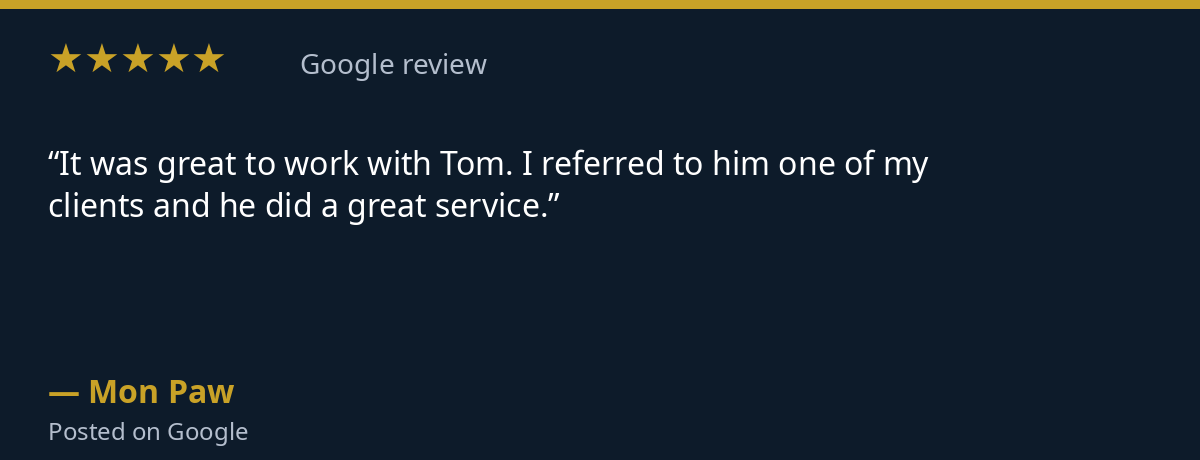
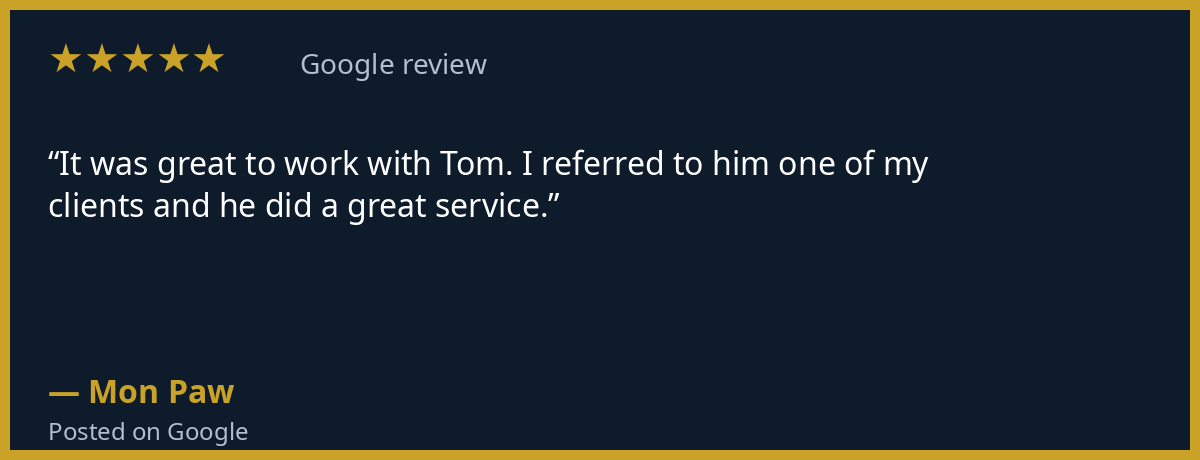
Forest Lake Estates kit pass 5: table reverts to pass-3 separators + border=3 gold table frame; review panels rebaked as full gold boxes, each in its own paragraph (Nov 23, 2026)

Changed region(s): [[0.0, 0.0, 1.0, 1.0]]

diff --git a/paste-forest-walk.html b/paste-forest-walk.html
@@ -106,7 +106,7 @@
 <p>Tomasz R. Witek is helping buyers and sellers move. Forest Lake Estates is comprised of: Aquaterra Avenue, Autumn Leaves Lane, Fox Valley Road.</p>
 <h2>The Greely guides — every sub-area</h2>
 <p>Forest Lake Estates is one of the Greely sub-area guides in this series, under the full Greely village guide. Each one is built the same way: the community&rsquo;s own story, its designated school paths where they are verified, and live listings on its own boundary.</p>
-<table width="100%" border="0" cellpadding="0" cellspacing="0"><tr><td colspan="3" valign="top"><p><img src="https://ottawapropertyshop-design.github.io/ottawa-market-widgets/blocks/forest-walk/gold-line.png" width="100%" alt=""></p></td></tr><tr><td bgcolor="#c9a227" width="3"></td><td valign="top"><p><a href="https://www.sellingottawa.realestate/blog/Greely+Homes+for+Sale+in+Ottawa+Neighbourhood+Guide">Greely Homes for Sale in Ottawa Neighbourhood Guide</a><br>The full Greely guide — every sub-area, the village&rsquo;s servicing picture, schools and the whole village story.</p></td><td bgcolor="#c9a227" width="3"></td></tr><tr><td colspan="3" valign="top"><p><img src="https://ottawapropertyshop-design.github.io/ottawa-market-widgets/blocks/forest-walk/gold-line.png" width="100%" alt=""></p></td></tr><tr><td bgcolor="#c9a227" width="3"></td><td valign="top"><p><a href="https://www.sellingottawa.realestate/blog/Shadow+Ridge+Greely+Homes+for+Sale+Neighbourhood+Guide">Shadow Ridge Greely Homes for Sale Neighbourhood Guide</a><br>The established, city-serviced estate community. About 3.0 km from Forest Lake Estates.</p></td><td bgcolor="#c9a227" width="3"></td></tr><tr><td colspan="3" valign="top"><p><img src="https://ottawapropertyshop-design.github.io/ottawa-market-widgets/blocks/forest-walk/gold-line.png" width="100%" alt=""></p></td></tr><tr><td bgcolor="#c9a227" width="3"></td><td valign="top"><p><a href="https://www.sellingottawa.realestate/blog/Stanley+Park+Greely+Homes+for+Sale+Neighbourhood+Guide">Stanley Park Greely Homes for Sale Neighbourhood Guide</a><br>The established estate pocket in Greely&rsquo;s south end — larger resale homes on mature treed lots around the Stanley Park green space. About 1.4 km from Forest Lake Estates.</p></td><td bgcolor="#c9a227" width="3"></td></tr><tr><td colspan="3" valign="top"><p><img src="https://ottawapropertyshop-design.github.io/ottawa-market-widgets/blocks/forest-walk/gold-line.png" width="100%" alt=""></p></td></tr><tr><td bgcolor="#c9a227" width="3"></td><td valign="top"><p><a href="https://www.sellingottawa.realestate/blog/Sunset+Lakes+Greely+Homes+for+Sale+Neighbourhood+Guide">Sunset Lakes Greely Homes for Sale Neighbourhood Guide</a><br>Greely&rsquo;s original lake community in the village&rsquo;s northwest: estate homes around the man-made lakes, with the community park, pool, tennis and pickleball, and trails. About 2.4 km from Forest Lake Estates.</p></td><td bgcolor="#c9a227" width="3"></td></tr><tr><td colspan="3" valign="top"><p><img src="https://ottawapropertyshop-design.github.io/ottawa-market-widgets/blocks/forest-walk/gold-line.png" width="100%" alt=""></p></td></tr><tr><td bgcolor="#c9a227" width="3"></td><td valign="top"><p><a href="https://www.sellingottawa.realestate/blog/Emerald+Links+Greely+Homes+for+Sale+Neighbourhood+Guide">Emerald Links Greely Homes for Sale Neighbourhood Guide</a><br>The Patterson family&rsquo;s 27-hole golf course community and the estate homes of Phases 1, 2 and 3 around the fairways. About 0.8 km from Forest Lake Estates.</p></td><td bgcolor="#c9a227" width="3"></td></tr><tr><td colspan="3" valign="top"><p><img src="https://ottawapropertyshop-design.github.io/ottawa-market-widgets/blocks/forest-walk/gold-line.png" width="100%" alt=""></p></td></tr><tr><td bgcolor="#c9a227" width="3"></td><td valign="top"><p><a href="https://www.sellingottawa.realestate/blog/Lakewood+Trails+Greely+Homes+for+Sale+Neighbourhood+Guide">Lakewood Trails Greely Homes for Sale Neighbourhood Guide</a><br>The Shoreway Drive waterfront community on the village&rsquo;s east side: two private lakes, the Residents&rsquo; Club, and Plan 4M-1636. About 3.6 km from Forest Lake Estates.</p></td><td bgcolor="#c9a227" width="3"></td></tr><tr><td colspan="3" valign="top"><p><img src="https://ottawapropertyshop-design.github.io/ottawa-market-widgets/blocks/forest-walk/gold-line.png" width="100%" alt=""></p></td></tr><tr><td bgcolor="#c9a227" width="3"></td><td valign="top"><p><a href="https://www.sellingottawa.realestate/blog/Quinn+Farm+Greely+Homes+for+Sale+Neighbourhood+Guide">Quinn Farm Greely Homes for Sale Neighbourhood Guide</a><br>The eco-community in the heart of Greely Village, on the Greely Loop: Still Meadow Way, Rangeland Avenue, Springrun Place, Perennial Way and Stonecrop Avenue, 121 homes, with lots still releasing. About 2.7 km from Forest Lake Estates.</p></td><td bgcolor="#c9a227" width="3"></td></tr><tr><td colspan="3" valign="top"><p><img src="https://ottawapropertyshop-design.github.io/ottawa-market-widgets/blocks/forest-walk/gold-line.png" width="100%" alt=""></p></td></tr><tr><td bgcolor="#c9a227" width="3"></td><td valign="top"><p><a href="https://www.sellingottawa.realestate/blog/Lakeland+Meadows+Greely+Homes+for+Sale+Neighbourhood+Guide">Lakeland Meadows Greely Homes for Sale Neighbourhood Guide</a><br>The newer lot community sharing the communal servicing story with Shadow Ridge. About 3.1 km from Forest Lake Estates.</p></td><td bgcolor="#c9a227" width="3"></td></tr><tr><td colspan="3" valign="top"><p><img src="https://ottawapropertyshop-design.github.io/ottawa-market-widgets/blocks/forest-walk/gold-line.png" width="100%" alt=""></p></td></tr><tr><td bgcolor="#c9a227" width="3"></td><td valign="top"><p><a href="https://www.sellingottawa.realestate/blog/Country+Hill+Estates+Greely+Homes+for+Sale+Neighbourhood+Guide">Country Hill Estates Greely Homes for Sale Neighbourhood Guide</a><br>Two-acre estate lots on Greely&rsquo;s east side. About 7.2 km from Forest Lake Estates.</p></td><td bgcolor="#c9a227" width="3"></td></tr><tr><td colspan="3" valign="top"><p><img src="https://ottawapropertyshop-design.github.io/ottawa-market-widgets/blocks/forest-walk/gold-line.png" width="100%" alt=""></p></td></tr><tr><td bgcolor="#c9a227" width="3"></td><td valign="top"><p><a href="https://www.sellingottawa.realestate/blog/Albion+Woods+Greely+Homes+for+Sale+Neighbourhood+Guide">Albion Woods Greely Homes for Sale Neighbourhood Guide</a><br>Parkbridge&rsquo;s land-lease manufactured-home community — residents own the home and lease the site. About 1.5 km from Forest Lake Estates.</p></td><td bgcolor="#c9a227" width="3"></td></tr><tr><td colspan="3" valign="top"><p><img src="https://ottawapropertyshop-design.github.io/ottawa-market-widgets/blocks/forest-walk/gold-line.png" width="100%" alt=""></p></td></tr><tr><td bgcolor="#c9a227" width="3"></td><td valign="top"><p><a href="https://www.sellingottawa.realestate/blog/Cedarlakes+Greely+Homes+for+Sale+Neighbourhood+Guide">Cedarlakes Greely Homes for Sale Neighbourhood Guide</a><br>The lake-backing estate community on Cedarlakes Way and the south end of Spartan Grove: executive homes on Cedar Lake, the Cedarlakes Association dock and lake access, and Plans 4M-1479 and 4M-1555. About 1.6 km from Forest Lake Estates.</p></td><td bgcolor="#c9a227" width="3"></td></tr><tr><td colspan="3" valign="top"><p><img src="https://ottawapropertyshop-design.github.io/ottawa-market-widgets/blocks/forest-walk/gold-line.png" width="100%" alt=""></p></td></tr><tr><td bgcolor="#c9a227" width="3"></td><td valign="top"><p><a href="https://www.sellingottawa.realestate/blog/Woodstream+Greely+Homes+for+Sale+Neighbourhood+Guide">Woodstream Greely Homes for Sale Neighbourhood Guide</a><br>The established lake community at the village&rsquo;s north end, modelled on Sunset Lakes: estate homes around the lake on Suncrest Drive, Woodstream Drive, Woods Lake Road, Tintern Drive, Rousseau Crescent and Wild Fern Way, with the beach, pool and tennis through the owners&rsquo; association. About 1.3 km from Forest Lake Estates.</p></td><td bgcolor="#c9a227" width="3"></td></tr><tr><td colspan="3" valign="top"><p><img src="https://ottawapropertyshop-design.github.io/ottawa-market-widgets/blocks/forest-walk/gold-line.png" width="100%" alt=""></p></td></tr><tr><td bgcolor="#c9a227" width="3"></td><td valign="top"><p><a href="https://www.sellingottawa.realestate/blog/South+Village+Greely+Homes+for+Sale+Neighbourhood+Guide">South Village Greely Homes for Sale Neighbourhood Guide</a><br>The Village Lake clubhouse community at the village&rsquo;s northwest end. About 2.2 km from Forest Lake Estates.</p></td><td bgcolor="#c9a227" width="3"></td></tr><tr><td colspan="3" valign="top"><p><img src="https://ottawapropertyshop-design.github.io/ottawa-market-widgets/blocks/forest-walk/gold-line.png" width="100%" alt=""></p></td></tr><tr><td bgcolor="#c9a227" width="3"></td><td valign="top"><p><a href="https://www.sellingottawa.realestate/blog/Orchard+View+Estates+Greely+Homes+for+Sale+Neighbourhood+Guide">Orchard View Estates Greely Homes for Sale Neighbourhood Guide</a><br>The large-parcel estate community around the Orchard Road ponds in Greely&rsquo;s southwest: twelve streets, 373 homes, a protected wildlife sanctuary at its heart, and the separate Nick Adams Road section. About 1.7 km from Forest Lake Estates.</p></td><td bgcolor="#c9a227" width="3"></td></tr><tr><td colspan="3" valign="top"><p><img src="https://ottawapropertyshop-design.github.io/ottawa-market-widgets/blocks/forest-walk/gold-line.png" width="100%" alt=""></p></td></tr><tr><td bgcolor="#c9a227" width="3"></td><td valign="top"><p><a href="https://www.sellingottawa.realestate/blog/Greely+West+Homes+for+Sale+Neighbourhood+Guide">Greely West Homes for Sale Neighbourhood Guide</a><br>The village&rsquo;s west side around Greely West Park: twelve streets, 305 homes, plus the Manotick Station Road strip in its searches. About 0.4 km from Forest Lake Estates.</p></td><td bgcolor="#c9a227" width="3"></td></tr><tr><td colspan="3" valign="top"><p><img src="https://ottawapropertyshop-design.github.io/ottawa-market-widgets/blocks/forest-walk/gold-line.png" width="100%" alt=""></p></td></tr><tr><td bgcolor="#c9a227" width="3"></td><td valign="top"><p><a href="https://www.sellingottawa.realestate/blog/Greely+Village+Core+Centre+Homes+for+Sale+Neighbourhood+Guide">Greely Village Core Centre Homes for Sale Neighbourhood Guide</a><br>The old-village streets — Meadow Drive, Old Prescott Road, Parkway Road and Stagecoach Road. About 3.9 km from Forest Lake Estates.</p></td><td bgcolor="#c9a227" width="3"></td></tr><tr><td colspan="3" valign="top"><p><img src="https://ottawapropertyshop-design.github.io/ottawa-market-widgets/blocks/forest-walk/gold-line.png" width="100%" alt=""></p></td></tr><tr><td bgcolor="#c9a227" width="3"></td><td valign="top"><p>Forest Lake Estates Greely Homes for Sale Neighbourhood Guide<br>This guide — the forested one-acre-lot community now selling in Greely&rsquo;s west end: Aquaterra Avenue, Autumn Leaves Lane and the Fox Valley Road frontage, Registered Plan 4M-1782, with lots still available.</p></td><td bgcolor="#c9a227" width="3"></td></tr><tr><td colspan="3" valign="top"><p><img src="https://ottawapropertyshop-design.github.io/ottawa-market-widgets/blocks/forest-walk/gold-line.png" width="100%" alt=""></p></td></tr><tr><td bgcolor="#c9a227" width="3"></td><td valign="top"><p><a href="https://www.sellingottawa.realestate/blog/Albion+Sun+Vista+Greely+Homes+for+Sale+Neighbourhood+Guide">Albion Sun Vista Greely Homes for Sale Neighbourhood Guide</a><br>Parkbridge&rsquo;s sister land-lease community beside Albion Woods — residents own the home and lease the site. About 1.6 km from Forest Lake Estates.</p></td><td bgcolor="#c9a227" width="3"></td></tr><tr><td colspan="3" valign="top"><p><img src="https://ottawapropertyshop-design.github.io/ottawa-market-widgets/blocks/forest-walk/gold-line.png" width="100%" alt=""></p></td></tr><tr><td bgcolor="#c9a227" width="3"></td><td valign="top"><p><a href="https://www.sellingottawa.realestate/blog/Greely+Orchard+Estates+Homes+for+Sale+Neighbourhood+Guide">Greely Orchard Estates Homes for Sale Neighbourhood Guide</a><br>The built-out estate community on two-acre lots with ponds. About 1.2 km from Forest Lake Estates.</p></td><td bgcolor="#c9a227" width="3"></td></tr><tr><td colspan="3" valign="top"><p><img src="https://ottawapropertyshop-design.github.io/ottawa-market-widgets/blocks/forest-walk/gold-line.png" width="100%" alt=""></p></td></tr><tr><td bgcolor="#c9a227" width="3"></td><td valign="top"><p><a href="https://www.sellingottawa.realestate/blog/Waters+Edge+Greely+Homes+for+Sale+Neighbourhood+Guide">Waters Edge Greely Homes for Sale Neighbourhood Guide</a><br>The custom-home community around spring-fed Lake Zont: two streets, 72 homes, inside the village of Greely. About 4.6 km from Forest Lake Estates.</p></td><td bgcolor="#c9a227" width="3"></td></tr><tr><td colspan="3" valign="top"><p><img src="https://ottawapropertyshop-design.github.io/ottawa-market-widgets/blocks/forest-walk/gold-line.png" width="100%" alt=""></p></td></tr><tr><td bgcolor="#c9a227" width="3"></td><td valign="top"><p><a href="https://www.sellingottawa.realestate/blog/Emerald+Estates+Greely+Homes+for+Sale+Neighbourhood+Guide">Emerald Estates Greely Homes for Sale Neighbourhood Guide</a><br>Sunset Lakes Developments&rsquo; planned 73-home community west of Stagecoach Road, beside Emerald Links — tracked from the planning stage. About 0.6 km from Forest Lake Estates.</p></td><td bgcolor="#c9a227" width="3"></td></tr><tr><td colspan="3" valign="top"><p><img src="https://ottawapropertyshop-design.github.io/ottawa-market-widgets/blocks/forest-walk/gold-line.png" width="100%" alt=""></p></td></tr><tr><td bgcolor="#c9a227" width="3"></td><td valign="top"><p><a href="https://www.sellingottawa.realestate/blog/Emerald+Links+Phase+3+Greely+Luxury+Estates+Homes+for+Sale+Neighbourhood+Guide">Emerald Links Phase 3 Greely Luxury Estates Homes for Sale Neighbourhood Guide</a><br>The third phase of Emerald Links: 43 estate lots of roughly two acres, all custom homes, on Green Jacket Crescent and Green Links Way.</p></td><td bgcolor="#c9a227" width="3"></td></tr><tr><td colspan="3" valign="top"><p><img src="https://ottawapropertyshop-design.github.io/ottawa-market-widgets/blocks/forest-walk/gold-line.png" width="100%" alt=""></p></td></tr><tr><td bgcolor="#c9a227" width="3"></td><td valign="top"><p><a href="https://www.sellingottawa.realestate/blog/Rideau+Forest+Manotick+Luxury+Estates+Homes+for+Sale+Neighbourhood+Guide">Rideau Forest Manotick Luxury Estates Homes for Sale Neighbourhood Guide</a><br>Rideau Forest — part of Manotick Luxury Estates. It is a Manotick estate pocket, but closer to Greely than to Manotick village — the interlinked standalone luxury estates guide.</p></td><td bgcolor="#c9a227" width="3"></td></tr><tr><td colspan="3" valign="top"><p><img src="https://ottawapropertyshop-design.github.io/ottawa-market-widgets/blocks/forest-walk/gold-line.png" width="100%" alt=""></p></td></tr></table>
+<table width="100%" border="3" bordercolor="#c9a227" cellpadding="0" cellspacing="0"><tr><td colspan="3" valign="top"><p><img src="https://ottawapropertyshop-design.github.io/ottawa-market-widgets/blocks/forest-walk/gold-line.png" width="100%" alt=""></p></td></tr><tr><td bgcolor="#c9a227" width="3"></td><td valign="top"><p><a href="https://www.sellingottawa.realestate/blog/Greely+Homes+for+Sale+in+Ottawa+Neighbourhood+Guide">Greely Homes for Sale in Ottawa Neighbourhood Guide</a><br>The full Greely guide — every sub-area, the village&rsquo;s servicing picture, schools and the whole village story.<br><img src="https://ottawapropertyshop-design.github.io/ottawa-market-widgets/blocks/forest-walk/gold-line.png" width="100%" alt=""></p></td><td bgcolor="#c9a227" width="3"></td></tr><tr><td bgcolor="#c9a227" width="3"></td><td valign="top"><p><a href="https://www.sellingottawa.realestate/blog/Shadow+Ridge+Greely+Homes+for+Sale+Neighbourhood+Guide">Shadow Ridge Greely Homes for Sale Neighbourhood Guide</a><br>The established, city-serviced estate community. About 3.0 km from Forest Lake Estates.<br><img src="https://ottawapropertyshop-design.github.io/ottawa-market-widgets/blocks/forest-walk/gold-line.png" width="100%" alt=""></p></td><td bgcolor="#c9a227" width="3"></td></tr><tr><td bgcolor="#c9a227" width="3"></td><td valign="top"><p><a href="https://www.sellingottawa.realestate/blog/Stanley+Park+Greely+Homes+for+Sale+Neighbourhood+Guide">Stanley Park Greely Homes for Sale Neighbourhood Guide</a><br>The established estate pocket in Greely&rsquo;s south end — larger resale homes on mature treed lots around the Stanley Park green space. About 1.4 km from Forest Lake Estates.<br><img src="https://ottawapropertyshop-design.github.io/ottawa-market-widgets/blocks/forest-walk/gold-line.png" width="100%" alt=""></p></td><td bgcolor="#c9a227" width="3"></td></tr><tr><td bgcolor="#c9a227" width="3"></td><td valign="top"><p><a href="https://www.sellingottawa.realestate/blog/Sunset+Lakes+Greely+Homes+for+Sale+Neighbourhood+Guide">Sunset Lakes Greely Homes for Sale Neighbourhood Guide</a><br>Greely&rsquo;s original lake community in the village&rsquo;s northwest: estate homes around the man-made lakes, with the community park, pool, tennis and pickleball, and trails. About 2.4 km from Forest Lake Estates.<br><img src="https://ottawapropertyshop-design.github.io/ottawa-market-widgets/blocks/forest-walk/gold-line.png" width="100%" alt=""></p></td><td bgcolor="#c9a227" width="3"></td></tr><tr><td bgcolor="#c9a227" width="3"></td><td valign="top"><p><a href="https://www.sellingottawa.realestate/blog/Emerald+Links+Greely+Homes+for+Sale+Neighbourhood+Guide">Emerald Links Greely Homes for Sale Neighbourhood Guide</a><br>The Patterson family&rsquo;s 27-hole golf course community and the estate homes of Phases 1, 2 and 3 around the fairways. About 0.8 km from Forest Lake Estates.<br><img src="https://ottawapropertyshop-design.github.io/ottawa-market-widgets/blocks/forest-walk/gold-line.png" width="100%" alt=""></p></td><td bgcolor="#c9a227" width="3"></td></tr><tr><td bgcolor="#c9a227" width="3"></td><td valign="top"><p><a href="https://www.sellingottawa.realestate/blog/Lakewood+Trails+Greely+Homes+for+Sale+Neighbourhood+Guide">Lakewood Trails Greely Homes for Sale Neighbourhood Guide</a><br>The Shoreway Drive waterfront community on the village&rsquo;s east side: two private lakes, the Residents&rsquo; Club, and Plan 4M-1636. About 3.6 km from Forest Lake Estates.<br><img src="https://ottawapropertyshop-design.github.io/ottawa-market-widgets/blocks/forest-walk/gold-line.png" width="100%" alt=""></p></td><td bgcolor="#c9a227" width="3"></td></tr><tr><td bgcolor="#c9a227" width="3"></td><td valign="top"><p><a href="https://www.sellingottawa.realestate/blog/Quinn+Farm+Greely+Homes+for+Sale+Neighbourhood+Guide">Quinn Farm Greely Homes for Sale Neighbourhood Guide</a><br>The eco-community in the heart of Greely Village, on the Greely Loop: Still Meadow Way, Rangeland Avenue, Springrun Place, Perennial Way and Stonecrop Avenue, 121 homes, with lots still releasing. About 2.7 km from Forest Lake Estates.<br><img src="https://ottawapropertyshop-design.github.io/ottawa-market-widgets/blocks/forest-walk/gold-line.png" width="100%" alt=""></p></td><td bgcolor="#c9a227" width="3"></td></tr><tr><td bgcolor="#c9a227" width="3"></td><td valign="top"><p><a href="https://www.sellingottawa.realestate/blog/Lakeland+Meadows+Greely+Homes+for+Sale+Neighbourhood+Guide">Lakeland Meadows Greely Homes for Sale Neighbourhood Guide</a><br>The newer lot community sharing the communal servicing story with Shadow Ridge. About 3.1 km from Forest Lake Estates.<br><img src="https://ottawapropertyshop-design.github.io/ottawa-market-widgets/blocks/forest-walk/gold-line.png" width="100%" alt=""></p></td><td bgcolor="#c9a227" width="3"></td></tr><tr><td bgcolor="#c9a227" width="3"></td><td valign="top"><p><a href="https://www.sellingottawa.realestate/blog/Country+Hill+Estates+Greely+Homes+for+Sale+Neighbourhood+Guide">Country Hill Estates Greely Homes for Sale Neighbourhood Guide</a><br>Two-acre estate lots on Greely&rsquo;s east side. About 7.2 km from Forest Lake Estates.<br><img src="https://ottawapropertyshop-design.github.io/ottawa-market-widgets/blocks/forest-walk/gold-line.png" width="100%" alt=""></p></td><td bgcolor="#c9a227" width="3"></td></tr><tr><td bgcolor="#c9a227" width="3"></td><td valign="top"><p><a href="https://www.sellingottawa.realestate/blog/Albion+Woods+Greely+Homes+for+Sale+Neighbourhood+Guide">Albion Woods Greely Homes for Sale Neighbourhood Guide</a><br>Parkbridge&rsquo;s land-lease manufactured-home community — residents own the home and lease the site. About 1.5 km from Forest Lake Estates.<br><img src="https://ottawapropertyshop-design.github.io/ottawa-market-widgets/blocks/forest-walk/gold-line.png" width="100%" alt=""></p></td><td bgcolor="#c9a227" width="3"></td></tr><tr><td bgcolor="#c9a227" width="3"></td><td valign="top"><p><a href="https://www.sellingottawa.realestate/blog/Cedarlakes+Greely+Homes+for+Sale+Neighbourhood+Guide">Cedarlakes Greely Homes for Sale Neighbourhood Guide</a><br>The lake-backing estate community on Cedarlakes Way and the south end of Spartan Grove: executive homes on Cedar Lake, the Cedarlakes Association dock and lake access, and Plans 4M-1479 and 4M-1555. About 1.6 km from Forest Lake Estates.<br><img src="https://ottawapropertyshop-design.github.io/ottawa-market-widgets/blocks/forest-walk/gold-line.png" width="100%" alt=""></p></td><td bgcolor="#c9a227" width="3"></td></tr><tr><td bgcolor="#c9a227" width="3"></td><td valign="top"><p><a href="https://www.sellingottawa.realestate/blog/Woodstream+Greely+Homes+for+Sale+Neighbourhood+Guide">Woodstream Greely Homes for Sale Neighbourhood Guide</a><br>The established lake community at the village&rsquo;s north end, modelled on Sunset Lakes: estate homes around the lake on Suncrest Drive, Woodstream Drive, Woods Lake Road, Tintern Drive, Rousseau Crescent and Wild Fern Way, with the beach, pool and tennis through the owners&rsquo; association. About 1.3 km from Forest Lake Estates.<br><img src="https://ottawapropertyshop-design.github.io/ottawa-market-widgets/blocks/forest-walk/gold-line.png" width="100%" alt=""></p></td><td bgcolor="#c9a227" width="3"></td></tr><tr><td bgcolor="#c9a227" width="3"></td><td valign="top"><p><a href="https://www.sellingottawa.realestate/blog/South+Village+Greely+Homes+for+Sale+Neighbourhood+Guide">South Village Greely Homes for Sale Neighbourhood Guide</a><br>The Village Lake clubhouse community at the village&rsquo;s northwest end. About 2.2 km from Forest Lake Estates.<br><img src="https://ottawapropertyshop-design.github.io/ottawa-market-widgets/blocks/forest-walk/gold-line.png" width="100%" alt=""></p></td><td bgcolor="#c9a227" width="3"></td></tr><tr><td bgcolor="#c9a227" width="3"></td><td valign="top"><p><a href="https://www.sellingottawa.realestate/blog/Orchard+View+Estates+Greely+Homes+for+Sale+Neighbourhood+Guide">Orchard View Estates Greely Homes for Sale Neighbourhood Guide</a><br>The large-parcel estate community around the Orchard Road ponds in Greely&rsquo;s southwest: twelve streets, 373 homes, a protected wildlife sanctuary at its heart, and the separate Nick Adams Road section. About 1.7 km from Forest Lake Estates.<br><img src="https://ottawapropertyshop-design.github.io/ottawa-market-widgets/blocks/forest-walk/gold-line.png" width="100%" alt=""></p></td><td bgcolor="#c9a227" width="3"></td></tr><tr><td bgcolor="#c9a227" width="3"></td><td valign="top"><p><a href="https://www.sellingottawa.realestate/blog/Greely+West+Homes+for+Sale+Neighbourhood+Guide">Greely West Homes for Sale Neighbourhood Guide</a><br>The village&rsquo;s west side around Greely West Park: twelve streets, 305 homes, plus the Manotick Station Road strip in its searches. About 0.4 km from Forest Lake Estates.<br><img src="https://ottawapropertyshop-design.github.io/ottawa-market-widgets/blocks/forest-walk/gold-line.png" width="100%" alt=""></p></td><td bgcolor="#c9a227" width="3"></td></tr><tr><td bgcolor="#c9a227" width="3"></td><td valign="top"><p><a href="https://www.sellingottawa.realestate/blog/Greely+Village+Core+Centre+Homes+for+Sale+Neighbourhood+Guide">Greely Village Core Centre Homes for Sale Neighbourhood Guide</a><br>The old-village streets — Meadow Drive, Old Prescott Road, Parkway Road and Stagecoach Road. About 3.9 km from Forest Lake Estates.<br><img src="https://ottawapropertyshop-design.github.io/ottawa-market-widgets/blocks/forest-walk/gold-line.png" width="100%" alt=""></p></td><td bgcolor="#c9a227" width="3"></td></tr><tr><td bgcolor="#c9a227" width="3"></td><td valign="top"><p>Forest Lake Estates Greely Homes for Sale Neighbourhood Guide<br>This guide — the forested one-acre-lot community now selling in Greely&rsquo;s west end: Aquaterra Avenue, Autumn Leaves Lane and the Fox Valley Road frontage, Registered Plan 4M-1782, with lots still available.<br><img src="https://ottawapropertyshop-design.github.io/ottawa-market-widgets/blocks/forest-walk/gold-line.png" width="100%" alt=""></p></td><td bgcolor="#c9a227" width="3"></td></tr><tr><td bgcolor="#c9a227" width="3"></td><td valign="top"><p><a href="https://www.sellingottawa.realestate/blog/Albion+Sun+Vista+Greely+Homes+for+Sale+Neighbourhood+Guide">Albion Sun Vista Greely Homes for Sale Neighbourhood Guide</a><br>Parkbridge&rsquo;s sister land-lease community beside Albion Woods — residents own the home and lease the site. About 1.6 km from Forest Lake Estates.<br><img src="https://ottawapropertyshop-design.github.io/ottawa-market-widgets/blocks/forest-walk/gold-line.png" width="100%" alt=""></p></td><td bgcolor="#c9a227" width="3"></td></tr><tr><td bgcolor="#c9a227" width="3"></td><td valign="top"><p><a href="https://www.sellingottawa.realestate/blog/Greely+Orchard+Estates+Homes+for+Sale+Neighbourhood+Guide">Greely Orchard Estates Homes for Sale Neighbourhood Guide</a><br>The built-out estate community on two-acre lots with ponds. About 1.2 km from Forest Lake Estates.<br><img src="https://ottawapropertyshop-design.github.io/ottawa-market-widgets/blocks/forest-walk/gold-line.png" width="100%" alt=""></p></td><td bgcolor="#c9a227" width="3"></td></tr><tr><td bgcolor="#c9a227" width="3"></td><td valign="top"><p><a href="https://www.sellingottawa.realestate/blog/Waters+Edge+Greely+Homes+for+Sale+Neighbourhood+Guide">Waters Edge Greely Homes for Sale Neighbourhood Guide</a><br>The custom-home community around spring-fed Lake Zont: two streets, 72 homes, inside the village of Greely. About 4.6 km from Forest Lake Estates.<br><img src="https://ottawapropertyshop-design.github.io/ottawa-market-widgets/blocks/forest-walk/gold-line.png" width="100%" alt=""></p></td><td bgcolor="#c9a227" width="3"></td></tr><tr><td bgcolor="#c9a227" width="3"></td><td valign="top"><p><a href="https://www.sellingottawa.realestate/blog/Emerald+Estates+Greely+Homes+for+Sale+Neighbourhood+Guide">Emerald Estates Greely Homes for Sale Neighbourhood Guide</a><br>Sunset Lakes Developments&rsquo; planned 73-home community west of Stagecoach Road, beside Emerald Links — tracked from the planning stage. About 0.6 km from Forest Lake Estates.<br><img src="https://ottawapropertyshop-design.github.io/ottawa-market-widgets/blocks/forest-walk/gold-line.png" width="100%" alt=""></p></td><td bgcolor="#c9a227" width="3"></td></tr><tr><td bgcolor="#c9a227" width="3"></td><td valign="top"><p><a href="https://www.sellingottawa.realestate/blog/Emerald+Links+Phase+3+Greely+Luxury+Estates+Homes+for+Sale+Neighbourhood+Guide">Emerald Links Phase 3 Greely Luxury Estates Homes for Sale Neighbourhood Guide</a><br>The third phase of Emerald Links: 43 estate lots of roughly two acres, all custom homes, on Green Jacket Crescent and Green Links Way.<br><img src="https://ottawapropertyshop-design.github.io/ottawa-market-widgets/blocks/forest-walk/gold-line.png" width="100%" alt=""></p></td><td bgcolor="#c9a227" width="3"></td></tr><tr><td bgcolor="#c9a227" width="3"></td><td valign="top"><p><a href="https://www.sellingottawa.realestate/blog/Rideau+Forest+Manotick+Luxury+Estates+Homes+for+Sale+Neighbourhood+Guide">Rideau Forest Manotick Luxury Estates Homes for Sale Neighbourhood Guide</a><br>Rideau Forest — part of Manotick Luxury Estates. It is a Manotick estate pocket, but closer to Greely than to Manotick village — the interlinked standalone luxury estates guide.</p></td><td bgcolor="#c9a227" width="3"></td></tr><tr><td colspan="3" valign="top"><p><img src="https://ottawapropertyshop-design.github.io/ottawa-market-widgets/blocks/forest-walk/gold-line.png" width="100%" alt=""></p></td></tr></table>
 <h2>Forest Lake Estates Greely questions, answered</h2>
 <p><strong>What is Forest Lake Estates?</strong><br>A forested estate community in Greely&rsquo;s west end, built by Sunset Lakes Developments around a community lake and ponds: roughly one-acre lots on Aquaterra Avenue, Autumn Leaves Lane and the Fox Valley Road frontage, registered as Plan 4M-1782. The first custom homes are built and occupied, and the community is still growing — lots remain available in the current phase. Emerald Estates shares its northern boundary, Emerald Links lies west, and Greely West wraps its south side.</p>
 <p><strong>Are lots still available in Forest Lake Estates?</strong><br>Yes — the developer is still selling lots in the current phase, and the land section at the top of this guide shows the Forest Lake Estates land listings in Greely on the live feed as they stand today. The lots that remain are the ones without a civic address yet, between the homes already built. If you are considering one, call or text me at 613-314-1199 before you commit: I will confirm what is actually available, walk the lots with you, and flag the servicing, easement and timeline questions that matter on a lot purchase. Greely lot releases like this — serviced, treed, inside an established village — do not come around often.</p>
@@ -114,8 +114,8 @@
 <p><strong>Which schools serve Forest Lake Estates?</strong><br>The designated paths are set out in the schools section above, checked against the boards&rsquo; own published boundaries and sector data in November 2026: Greely Elementary and Castor Valley on the public side, Osgoode Township High School for Grades 9 to 12, St. Mary to St. Mark on the Catholic side, Michel-Dupuis to Pierre-de-Blois in French public, and Jonathan-Pitre to Pierre-Savard in French Catholic — the CECCE schools settle designation by the exact address. Every Forest Lake Estates address checked falls inside each designated English and Catholic boundary serving Greely. Confirm any exact Greely address in the board&rsquo;s school locator before you buy.</p>
 <p><strong>What are the lots and services like in Forest Lake Estates?</strong><br>Lots of about one acre, each home on its own well and septic system — there is no municipal water or sewer in this part of Greely. The rear half of most lots sits in a registered conservation easement, and a tree-canopy rule keeps the community wooded as it fills in: the forest behind your home is protected, not a future building lot. Homes are custom builds, so this corner of Greely grows house by house rather than all at once.</p>
 <h2>What clients say</h2>
-<img src="https://ottawapropertyshop-design.github.io/ottawa-market-widgets/blocks/forest-walk/review-forest-lake-1.png" alt="Google review of Tomasz R. Witek, Real Estate Agent, eXp Realty, Brokerage, by Mon Paw: “It was great to work with Tom. I referred to him one of my clients and he did a great service.”" width="100%" style="width:100%;max-width:1200px;height:auto;display:block;margin:0 auto;">
-<img src="https://ottawapropertyshop-design.github.io/ottawa-market-widgets/blocks/forest-walk/review-forest-lake-2.png" alt="Google review of Tomasz R. Witek, Real Estate Agent, eXp Realty, Brokerage, by paul m: “Tom Witek was instrumental in helping us sell our house in the Kanata Lakes area. His comprehensive knowledge of the market gave us peace of mind when choosing a competitive price for our home. To make the transaction as seamless as possible, Tom explained each part of the selling process in a straight forward, easy to understand manner. At every point in the sale we felt that Tom had our best interest at hand. We would use Tom Witek as a real estate agent again and would highly recommend him to anyone looking to buy or sell a property in Kanata.”" width="100%" style="width:100%;max-width:1200px;height:auto;display:block;margin:0 auto;">
+<p><img src="https://ottawapropertyshop-design.github.io/ottawa-market-widgets/blocks/forest-walk/review-forest-lake-1.png" alt="Google review of Tomasz R. Witek, Real Estate Agent, eXp Realty, Brokerage, by Mon Paw: “It was great to work with Tom. I referred to him one of my clients and he did a great service.”" width="100%" style="width:100%;max-width:1200px;height:auto;display:block;margin:0 auto;"></p>
+<p><img src="https://ottawapropertyshop-design.github.io/ottawa-market-widgets/blocks/forest-walk/review-forest-lake-2.png" alt="Google review of Tomasz R. Witek, Real Estate Agent, eXp Realty, Brokerage, by paul m: “Tom Witek was instrumental in helping us sell our house in the Kanata Lakes area. His comprehensive knowledge of the market gave us peace of mind when choosing a competitive price for our home. To make the transaction as seamless as possible, Tom explained each part of the selling process in a straight forward, easy to understand manner. At every point in the sale we felt that Tom had our best interest at hand. We would use Tom Witek as a real estate agent again and would highly recommend him to anyone looking to buy or sell a property in Kanata.”" width="100%" style="width:100%;max-width:1200px;height:auto;display:block;margin:0 auto;"></p>
 <p>This information is provided for general guidance only. School catchment boundaries can change, and school assignment is always the school board's decision. Before purchasing a home, buyers should confirm the schools assigned to the exact address — with the board's school locator and directly with any other school they are considering.</p>
 <p>These guides are informational in nature only. Please call the school directly to confirm whether a specific address falls within its catchment.</p>
 <p><strong>Thinking of buying a lot, building, or selling in Forest Lake Estates, Greely?</strong></p>
